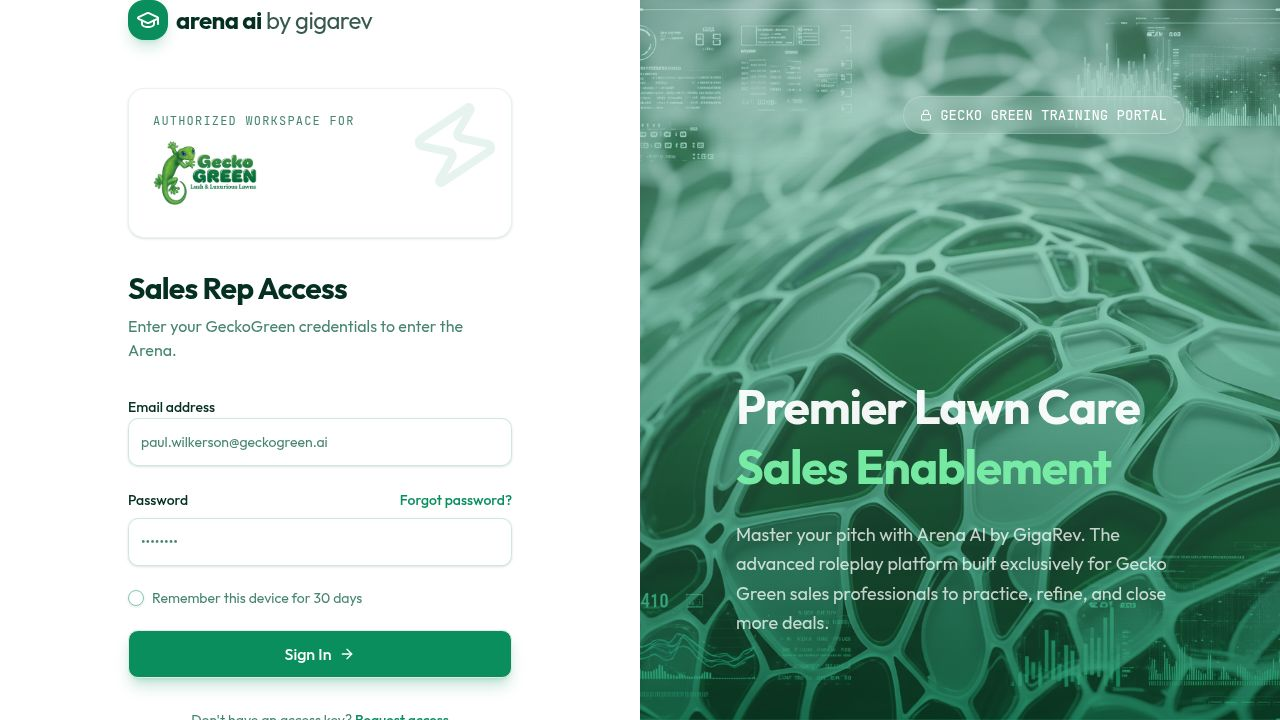
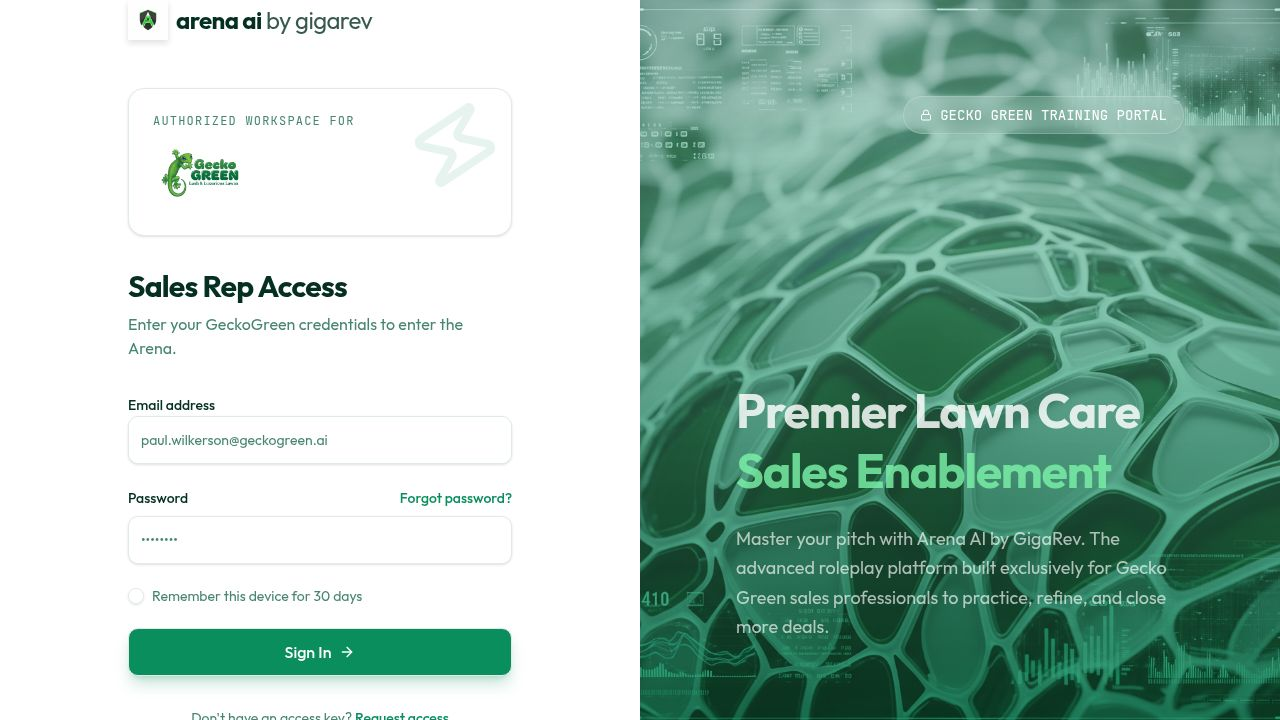
Update login page styling for better visual appeal and readability
Refactors the login page to use theme-aware background colors and text colors, improving readability in both light and dark modes.

Replit-Commit-Author: Agent
Replit-Commit-Session-Id: f6a9feac-f7ee-4e87-8356-aad7c364f841
Replit-Commit-Checkpoint-Type: full_checkpoint
Replit-Commit-Event-Id: 77f0f564-217e-4c52-a6af-1726eb9941f6
Replit-Commit-Screenshot-Url: https://storage.googleapis.com/screenshot-production-us-central1/863571c5-ff98-434c-bea9-2831166d05c0/f6a9feac-f7ee-4e87-8356-aad7c364f841/VOTBwQH
Replit-Helium-Checkpoint-Created: true

diff --git a/client/src/pages/login.tsx b/client/src/pages/login.tsx
@@ -27,7 +27,7 @@ export default function LoginPage() {
   return (
     <div className="min-h-screen grid lg:grid-cols-2 bg-background font-sans overflow-hidden">
       {/* Left Side - Form */}
-      <div className="flex flex-col justify-center px-8 sm:px-12 lg:px-24 xl:px-32 z-10 bg-white/50 backdrop-blur-sm">
+      <div className="flex flex-col justify-center px-8 sm:px-12 lg:px-24 xl:px-32 z-10 bg-card/50 backdrop-blur-sm">
         <motion.div
           initial={{ opacity: 0, x: -20 }}
           animate={{ opacity: 1, x: 0 }}
@@ -42,12 +42,14 @@ export default function LoginPage() {
             </div>
           </div>
 
-          <div className="mb-8 p-6 bg-white rounded-2xl border border-primary/10 shadow-sm relative overflow-hidden group">
+          <div className="mb-8 p-6 bg-card rounded-2xl border border-border shadow-sm relative overflow-hidden group">
             <div className="absolute top-0 right-0 p-2 opacity-10 group-hover:opacity-20 transition-opacity">
               <Zap className="w-24 h-24 text-primary rotate-12" />
             </div>
             <p className="text-xs font-mono uppercase tracking-widest text-muted-foreground mb-3">Authorized Workspace For</p>
-            <img src={geckoLogo} alt="GeckoGreen" className="h-16 w-auto object-contain mb-2" />
+            <div className="bg-white/90 p-2 rounded-lg inline-block">
+               <img src={geckoLogo} alt="GeckoGreen" className="h-12 w-auto object-contain" />
+            </div>
           </div>
 
           <div className="mb-8">
@@ -61,19 +63,19 @@ export default function LoginPage() {
 
           <form onSubmit={handleLogin} className="space-y-6">
             <div className="space-y-2">
-              <Label htmlFor="email">Email address</Label>
+              <Label htmlFor="email" className="text-foreground">Email address</Label>
               <Input 
                 id="email" 
                 type="email" 
                 placeholder="paul.wilkerson@geckogreen.ai" 
-                className="h-12 bg-white/50 border-primary/20 focus:border-primary focus:ring-primary/20 transition-all"
+                className="h-12 bg-background border-input focus:border-primary focus:ring-primary/20 transition-all text-foreground placeholder:text-muted-foreground"
                 required
               />
             </div>
             
             <div className="space-y-2">
               <div className="flex items-center justify-between">
-                <Label htmlFor="password">Password</Label>
+                <Label htmlFor="password" className="text-foreground">Password</Label>
                 <a href="#" className="text-sm font-medium text-primary hover:underline">
                   Forgot password?
                 </a>
@@ -82,21 +84,21 @@ export default function LoginPage() {
                 id="password" 
                 type="password" 
                 placeholder="••••••••" 
-                className="h-12 bg-white/50 border-primary/20 focus:border-primary focus:ring-primary/20 transition-all"
+                className="h-12 bg-background border-input focus:border-primary focus:ring-primary/20 transition-all text-foreground placeholder:text-muted-foreground"
                 required
               />
             </div>
 
             <div className="flex items-center space-x-2">
-              <Checkbox id="remember" className="border-primary/50 text-primary data-[state=checked]:bg-primary data-[state=checked]:text-white" />
-              <Label htmlFor="remember" className="font-normal text-muted-foreground">
+              <Checkbox id="remember" className="border-input data-[state=checked]:bg-primary data-[state=checked]:text-primary-foreground" />
+              <Label htmlFor="remember" className="font-normal text-muted-foreground cursor-pointer">
                 Remember this device for 30 days
               </Label>
             </div>
 
             <Button 
               type="submit" 
-              className="w-full h-12 text-base font-medium bg-primary hover:bg-primary/90 text-white shadow-lg shadow-primary/25 hover:shadow-primary/40 transition-all hover:-translate-y-0.5"
+              className="w-full h-12 text-base font-medium bg-primary hover:bg-primary/90 text-primary-foreground shadow-lg shadow-primary/25 hover:shadow-primary/40 transition-all hover:-translate-y-0.5"
               disabled={isLoading}
             >
               {isLoading ? (
